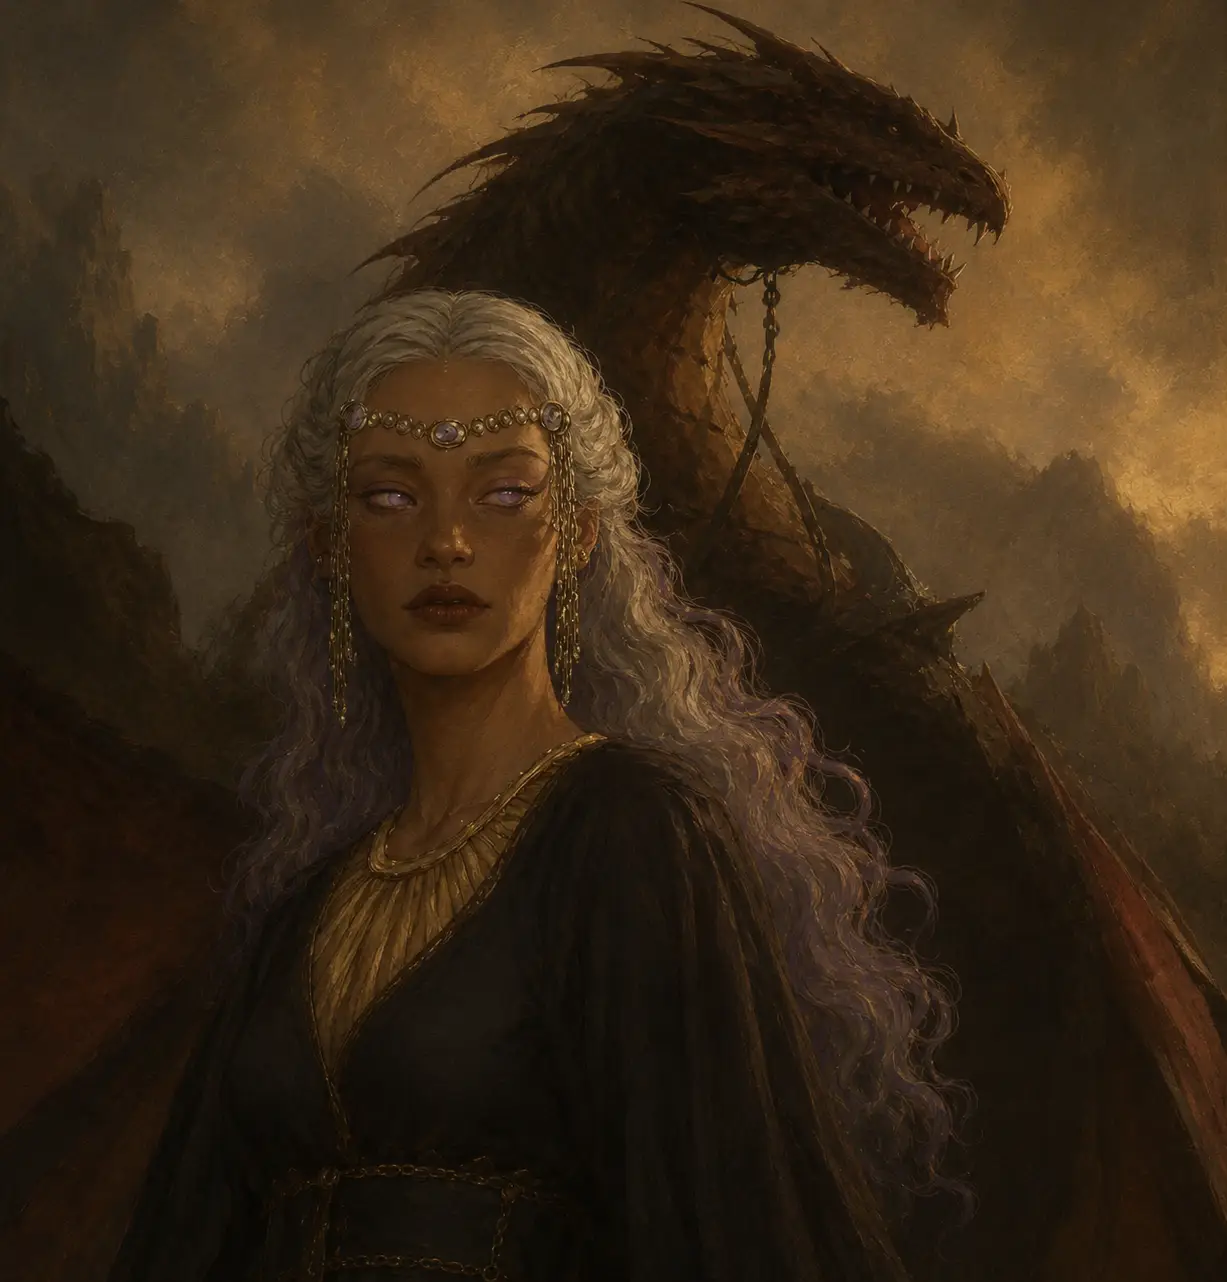
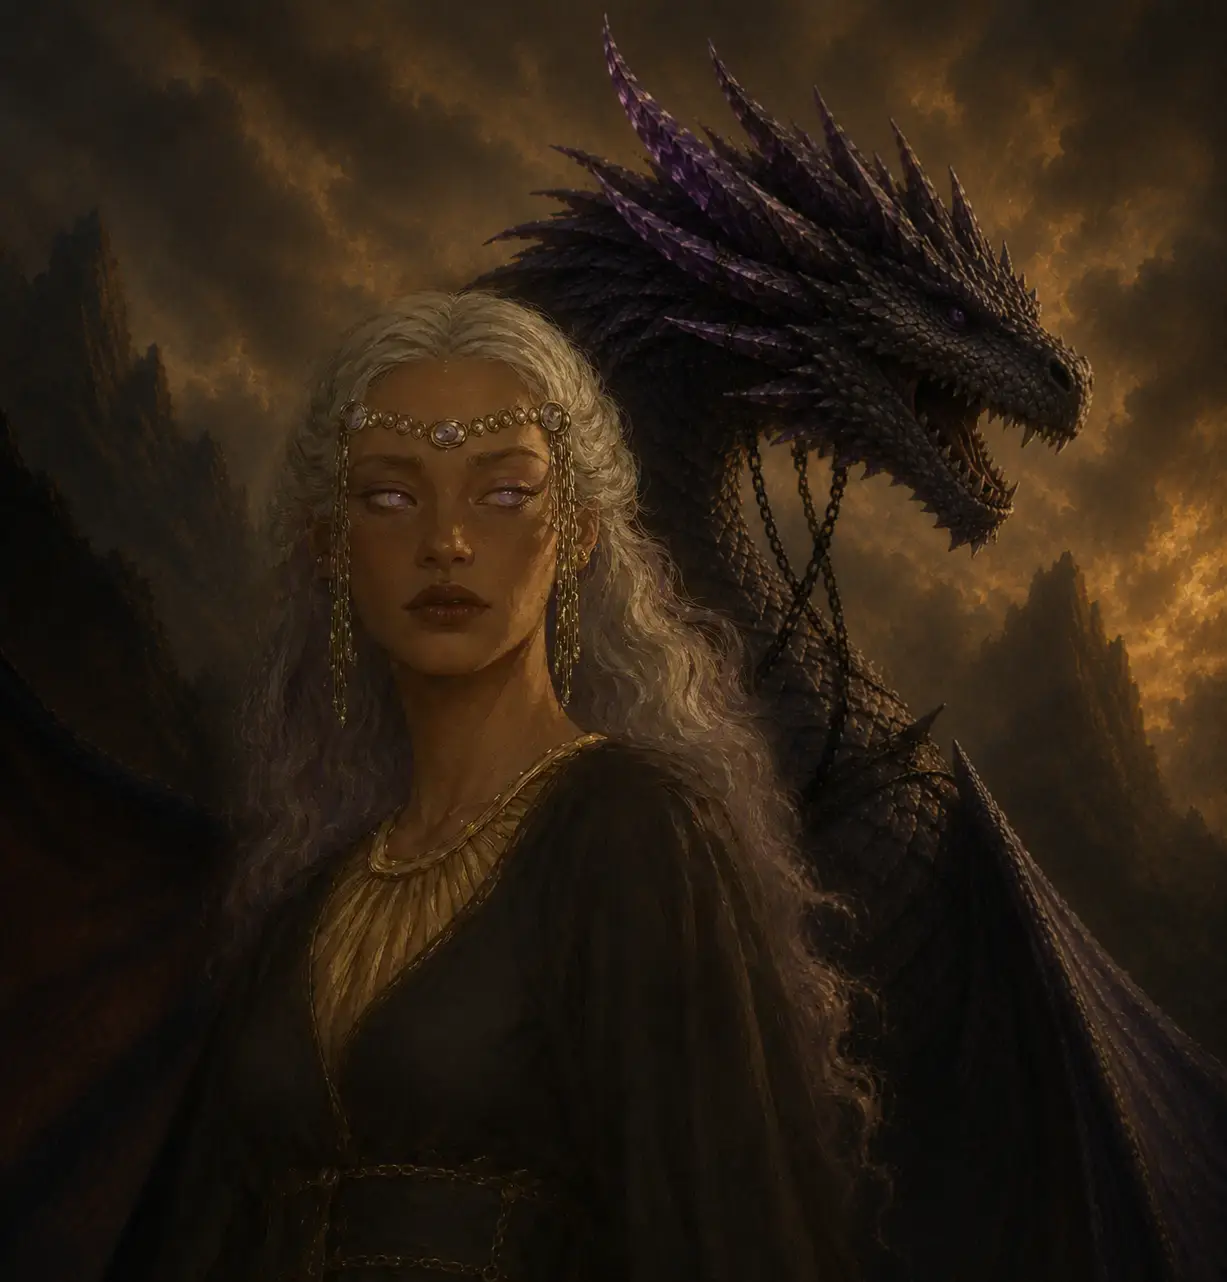
Some dragon updates

diff --git a/app/family-tree/page.tsx b/app/family-tree/page.tsx
@@ -249,7 +249,7 @@ export default function FamilyTree() {
             >
               <Union
                 a={{ id: "tion-lannister" }}
-                b={{ id: "myrielle-lannister" }}
+                b={{ id: "myrielle-marbrand" }}
               />
             </FamilyUnit>
           </div>
